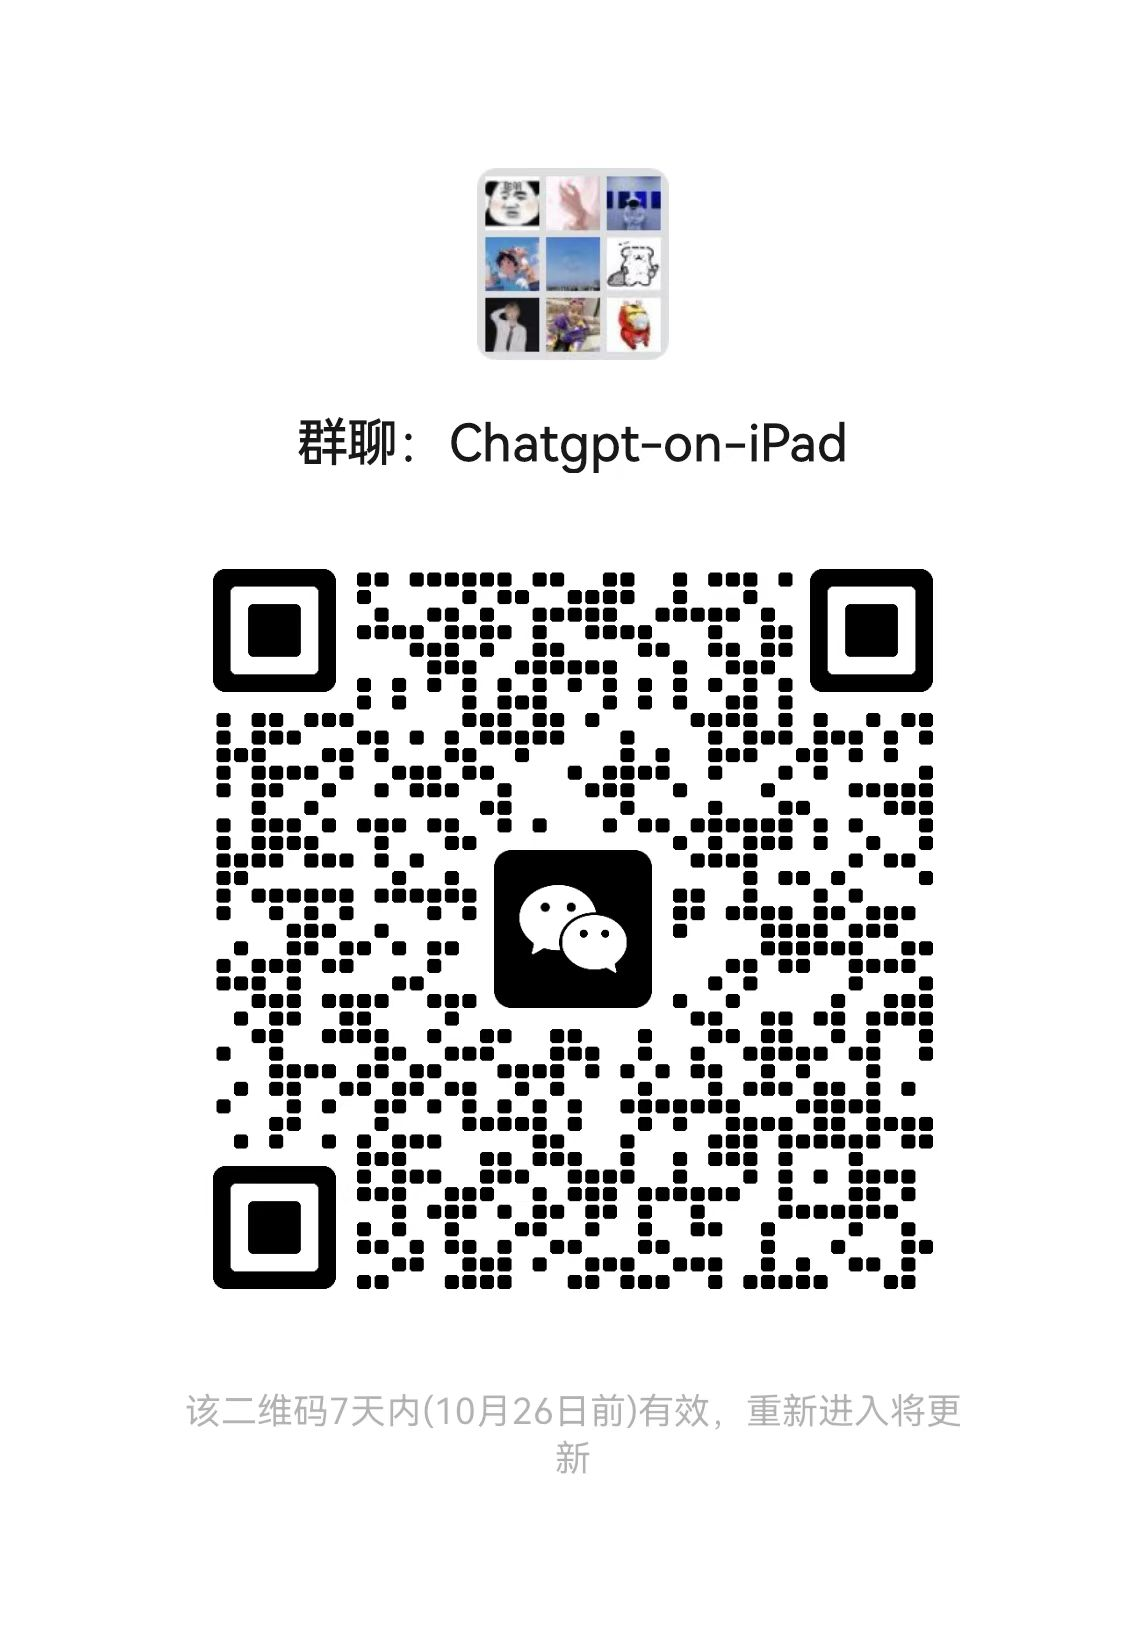
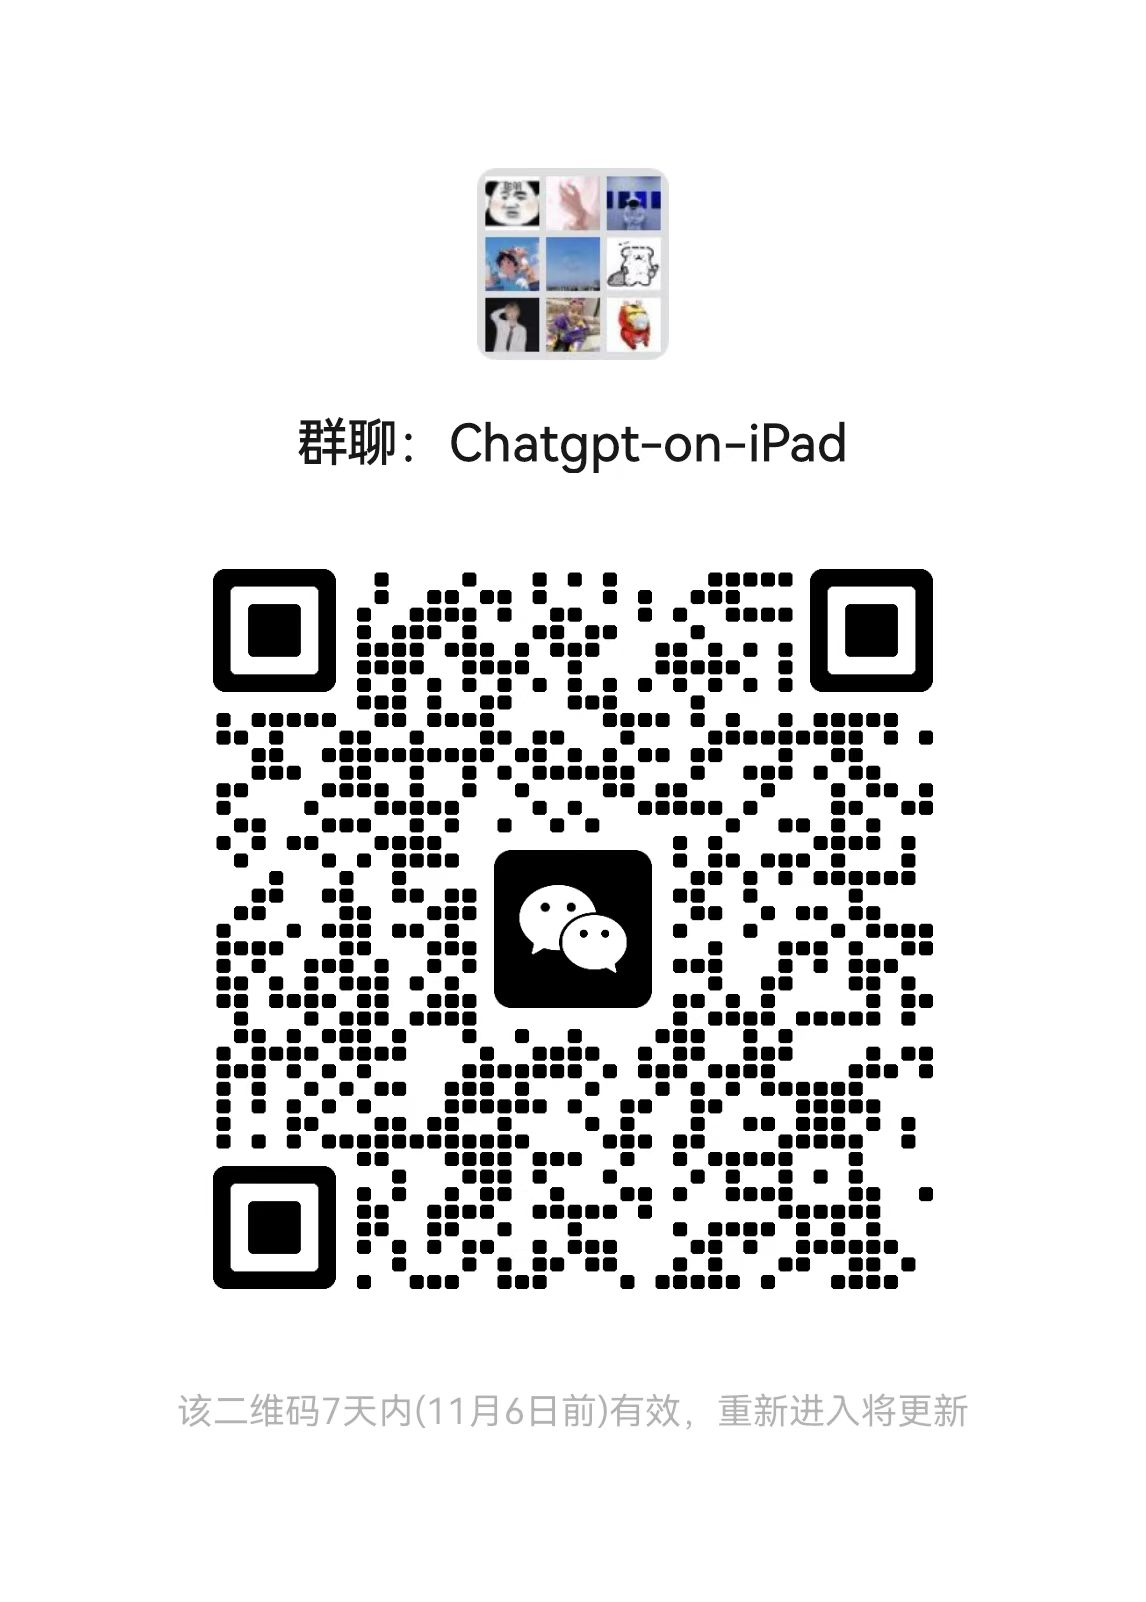
readme

diff --git a/README.md b/README.md
@@ -22,7 +22,7 @@
 4. 任何个人、团队和企业，无论以何种方式使用该项目、对何对象提供服务，所产生的一切后果，本项目均不承担任何责任
 
 ## 社区
-过期加个微:rongrong3938
+过期加个微:rongrong3938(人工拉), Cxiaoxin321(机器人自动拉群)
 开源项目交流群：
 ![交流群图片](docs/images/contact.jpg)
 
